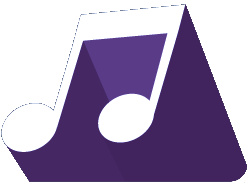
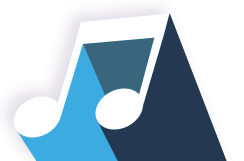
Change player color

diff --git a/assets/scss/player.scss b/assets/scss/player.scss
@@ -2,10 +2,10 @@
 .audio-player {
   width: 8rem;
   height: 5rem;
-  border: 3px solid #8379b5;
+  border: 3px solid  #5cb0cb;
   border-radius: 12.5px;
   overflow: hidden;
-  background-color: #4d5264;
+  background-color: #37647c;
   --player-button-width: 1.5em;
 }
 
@@ -81,7 +81,7 @@ input[type="range"] {
 }
 
 input[type="range"]::-webkit-slider-runnable-track {
-  background-color: #3d2558;
+  background-color: #1b3f47;
   border-radius: 0.5rem;
   height: 0.5rem;
 }
@@ -102,7 +102,7 @@ input[type="range"]:focus::-webkit-slider-thumb {
 }
 
 input[type="range"]::-moz-range-track {
-  background-color: #3d2558;
+  background-color: #1b3f47;
   border-radius: 0.5rem;
   height: 0.5rem;
 }

diff --git a/themes/mjc-morlaix/static/js/script.js b/themes/mjc-morlaix/static/js/script.js
@@ -37,7 +37,7 @@ const timeline = document.querySelector(".timeline");
 const playerButton = document.querySelector(".player-button"),
   audio = document.querySelector("audio"),
   playIcon = `
-        <svg xmlns="http://www.w3.org/2000/svg" viewBox="0 0 20 20" fill="#3D3132">
+        <svg xmlns="http://www.w3.org/2000/svg" viewBox="0 0 20 20" fill="#1b3f47">
     <path fill-rule="evenodd" d="M10 18a8 8 0 100-16 8 8 0 000 16zM9.555 7.168A1 1 0 008 8v4a1 1 0 001.555.832l3-2a1 1 0 000-1.664l-3-2z" clip-rule="evenodd" />
   </svg>
       `,

diff --git a/themes/mjc-morlaix/layouts/partials/header/header-player.html b/themes/mjc-morlaix/layouts/partials/header/header-player.html
@@ -6,7 +6,7 @@
           <svg
             xmlns="http://www.w3.org/2000/svg"
             viewBox="0 0 20 20"
-            fill="#3D3132"
+            fill="#1b3f47"
           >
             <path
               fill-rule="evenodd"
